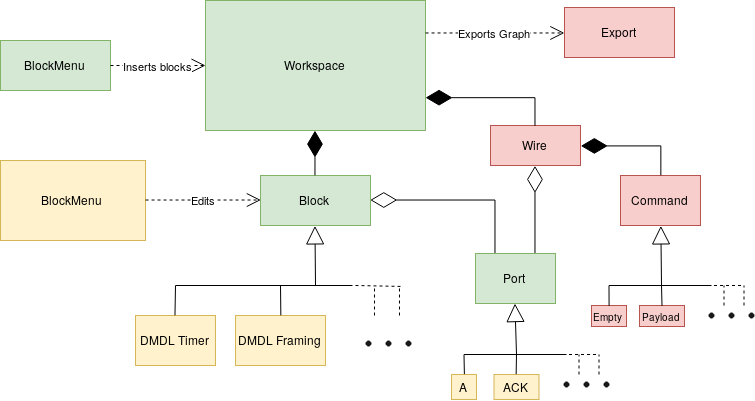
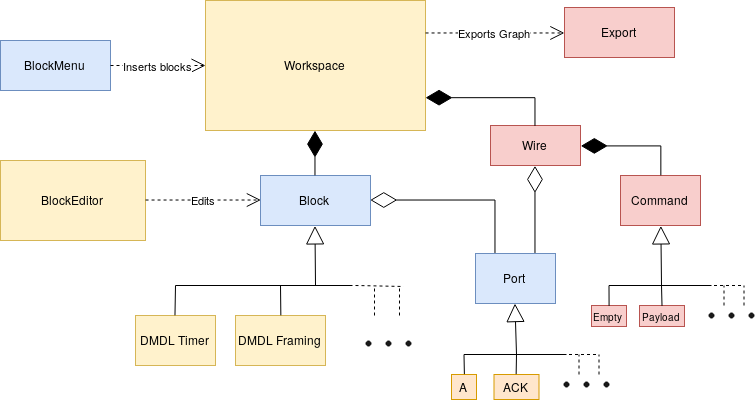
First draft of status report

diff --git a/status_report/ID2205_Leon_Fernandez_Status_Report.tex b/status_report/ID2205_Leon_Fernandez_Status_Report.tex
@@ -10,7 +10,11 @@
 % The header comments and encoding in this file were modified for inclusion with TeXworks.
 % The content is otherwise unchanged from the original distributed with the beamer package.
 
+
 \documentclass{beamer}
+
+% No navigation symbols in bottom right corner
+\beamertemplatenavigationsymbolsempty
 
 \mode<presentation>
 {
@@ -20,7 +24,6 @@
   \setbeamercovered{transparent}
   % or whatever (possibly just delete it)
 }
-
 
 \usepackage[english]{babel}
 % or whatever
@@ -35,7 +38,7 @@
 
 
 \title[ID2205 Status Report] % (optional, use only with long paper titles)
-{A Development Environment for DMDL}
+{A Development Environment for DMDL, Status Report}
 
 \author{Leon Fernandez}
 
@@ -62,157 +65,177 @@
 \begin{document}
 
 \begin{frame}
-  \titlepage
+ 	\titlepage
 \end{frame}
 
 \begin{frame}{Outline}
-  \tableofcontents
+ 	\tableofcontents
 \end{frame}
 
 \section{Intro}
 
 \subsection{Background}
 
-\begin{frame}{Make Titles Informative. Use Uppercase Letters.}{Subtitles are optional.}
-  % - A title should summarize the slide in an understandable fashion
-  %   for anyone how does not follow everything on the slide itself.
-
-  \begin{itemize}
-  \item
-    Use \texttt{itemize} a lot.
-  \item
-    Use very short sentences or short phrases.
-  \end{itemize}
+\begin{frame}{Software Defined Radios}
+	What is it?
+	\begin{itemize}
+		\item<2-> Wideband transciever
+		\item<3-> A ''reprogrammable'' radio
+		\item<4-> Largely a KTH effort [SOURCES]
+	\end{itemize}
 \end{frame}
 
-\subsection{DMDL}
-\begin{frame}{Make Titles Informative. Use Uppercase Letters.}{Subtitles are optional.}
-  % - A title should summarize the slide in an understandable fashion
-  %   for anyone how does not follow everything on the slide itself.
+\begin{frame}{Software Defined Radios}
+	Why SDRs?	
+	\begin{itemize}
+		\item<2-> Highly flexible
+		\item<3-> Fast prototyping and implementation of protocols
+		\item<4-> Wideband operation
+	\end{itemize}
+\end{frame}
 
-  \begin{itemize}
-  \item
-    Use \texttt{itemize} a lot.
-  \item
-    Use very short sentences or short phrases.
-  \end{itemize}
+
+\subsection{DMDL}
+\begin{frame}{Brief Description}
+	DMDL
+	\begin{itemize}
+		\item<2-> A graphical programming language
+		\item<3-> Visually represent MAC layer protocols
+		\item<4-> Synchronous Data Flow MoC
+	\end{itemize}
+
+	\onslide<5->{
+	Read more
+	\begin{itemize}
+		\item SOURCE 1
+		\item SOURCE 2
+	\end{itemize}
+	}
 \end{frame}
 
 \subsection{Motivation}
 
-\begin{frame}{Make Titles Informative.}
-
-  You can create overlays\dots
-  \begin{itemize}
-  \item using the \texttt{pause} command:
-    \begin{itemize}
-    \item
-      First item.
-      \pause
-    \item    
-      Second item.
-    \end{itemize}
-  \item
-    using overlay specifications:
-    \begin{itemize}
-    \item<3->
-      First item.
-    \item<4->
-      Second item.
-    \end{itemize}
-  \item
-    using the general \texttt{uncover} command:
-    \begin{itemize}
-      \uncover<5->{\item
-        First item.}
-      \uncover<6->{\item
-        Second item.}
-    \end{itemize}
-  \end{itemize}
+\begin{frame}{Why DMDL?}
+	Most SDR flexibility exists only within the \textbf{PHY} layer.\\
+	DMDL aims to extend the flexibility to the \textbf{MAC} layer.
 \end{frame}
 
+\begin{frame}{Why a Web DE?}
+	Flexibility is the name of the game. \\
+	If you have a browser, you can build a MAC protocol.
+\end{frame}
 
 \subsection{Goals}
 
-\begin{frame}{Make Titles Informative.}
+\begin{frame}{Goals}
+	\begin{itemize}
+		\item<2-> Learning Outcomes
+		\begin{itemize}
+			\item<3-> MAC protocol simulation
+			\item<4-> Preparation for thesis
+		\end{itemize}
+
+		\item<5-> Deliverables
+		\begin{itemize}
+			\item<6-> Simple web-based DE
+			\item<7-> Syntax check
+			\item<8-> (Optional) Export to platform-independent format (.xml) 
+		\end{itemize}
+	\end{itemize}
 \end{frame}
 
-\begin{frame}{Make Titles Informative.}
+\begin{frame}{NOT covered}
+	\begin{itemize}
+		\item<2-> No backend
+		\begin{itemize}
+			\item<3-> DE consists of HTML-, CSS- and JS-files and that's it
+		\end{itemize}
+		\item<4-> No platform integration
+		\begin{itemize}
+			\item<5-> Exports intermediate representation (.xml) and nothing more
+		\end{itemize}
+	\end{itemize}
 \end{frame}
-
-
 
 \section{Method}
 
 \subsection{Languages}
-
-\begin{frame}{Make Titles Informative.}
+\begin{frame}{Languages}
+	First time doing web development
+	\begin{itemize}
+		\item<2-> Native JavaScript (ECS 5)
+		\item<3-> HTML 5
+		\item<4-> CSS 3
+	\end{itemize}
 \end{frame}
-
-\begin{frame}{Make Titles Informative.}
-\end{frame}
-
-\begin{frame}{Make Titles Informative.}
-\end{frame}
-
 
 \subsection{Tools}
-
-\begin{frame}{Make Titles Informative.}
+\begin{frame}{Tools}
+	Keepin' it simple
+	\begin{itemize}
+		\item<2-> Firefox 63
+		\item<3-> Gedit 3
+	\end{itemize}
 \end{frame}
 
-\begin{frame}{Make Titles Informative.}
+\subsection{UML Code Overview}
+\begin{frame}{UML Code Overview}
+\centering
+	\begin{figure}
+ 		\includegraphics[width=\linewidth]{dmdl-editor.png}
+		\caption{Overview of the code structure.}
+		\label{fig:uml}
+	\end{figure}
 \end{frame}
-
-\begin{frame}{Make Titles Informative.}
-\end{frame}
-
-\subsection{UML Visualization}
 
 \section{Status}
 
 \subsection{Milestones}
 \begin{frame}{Make Titles Informative.}
+\centering
+	\begin{tabular}{|c|c|c|} \hline
+		\textbf{Milestone} & \textbf{Date} & \textbf{Status} \\ \hline
+		Change appearance & Nov 2nd & Done \\ \hline
+		Place blocks & Nov 7th & Done \\ \hline
+		Block ports & Nov 12th & Done \\ \hline
+		Connect ports & Nov 19th & Not Done \\ \hline
+		Dropdown config & Nov 29th & Done \\ \hline
+	\end{tabular}
 \end{frame}
 
+
 \subsection{UML Revisited}
-\begin{frame}{Make Titles Informative.}
+\begin{frame}{Status in terms of UML}
+\centering
+	\begin{figure}
+ 		\includegraphics[width=\linewidth]{dmdl-editor-status.png}
+ 		\caption{Work status of the different classes.}
+ 		\label{fig:uml-status}
+	\end{figure}
 \end{frame}
+
 
 \subsection{To Do}
 \begin{frame}{Make Titles Informative.}
+	What are the next steps?
+	\begin{itemize}
+		\item<2-> Wiring
+		\item<3-> Block internals
+	\end{itemize}
 \end{frame}
 
 
 \section*{Summary}
 \begin{frame}{Summary}
-
-  % Keep the summary *very short*.
-  \begin{itemize}
-  \item
-    The \alert{first main message} of your talk in one or two lines.
-  \item
-    The \alert{second main message} of your talk in one or two lines.
-  \item
-    Perhaps a \alert{third message}, but not more than that.
-  \end{itemize}
-  
-  % The following outlook is optional.
-  \vskip0pt plus.5fill
-  \begin{itemize}
-  \item
-    Outlook
-    \begin{itemize}
-    \item
-      Something you haven't solved.
-    \item
-      Something else you haven't solved.
-    \end{itemize}
-  \end{itemize}
+\begin{itemize}
+	\item Mostly on track, might have to do a bit of work during the holidays...
+	\item DE right now is ''hollow''. No syntax check and no export.
+	\item Git: \url{https://github.com/Zluudg/ID2205.git}
+\end{itemize}
 \end{frame}
 
 \section*{Demo and Questions}
-\begin{frame}{}
+\begin{frame}{Demo and Questions}
 \end{frame}
 
 
